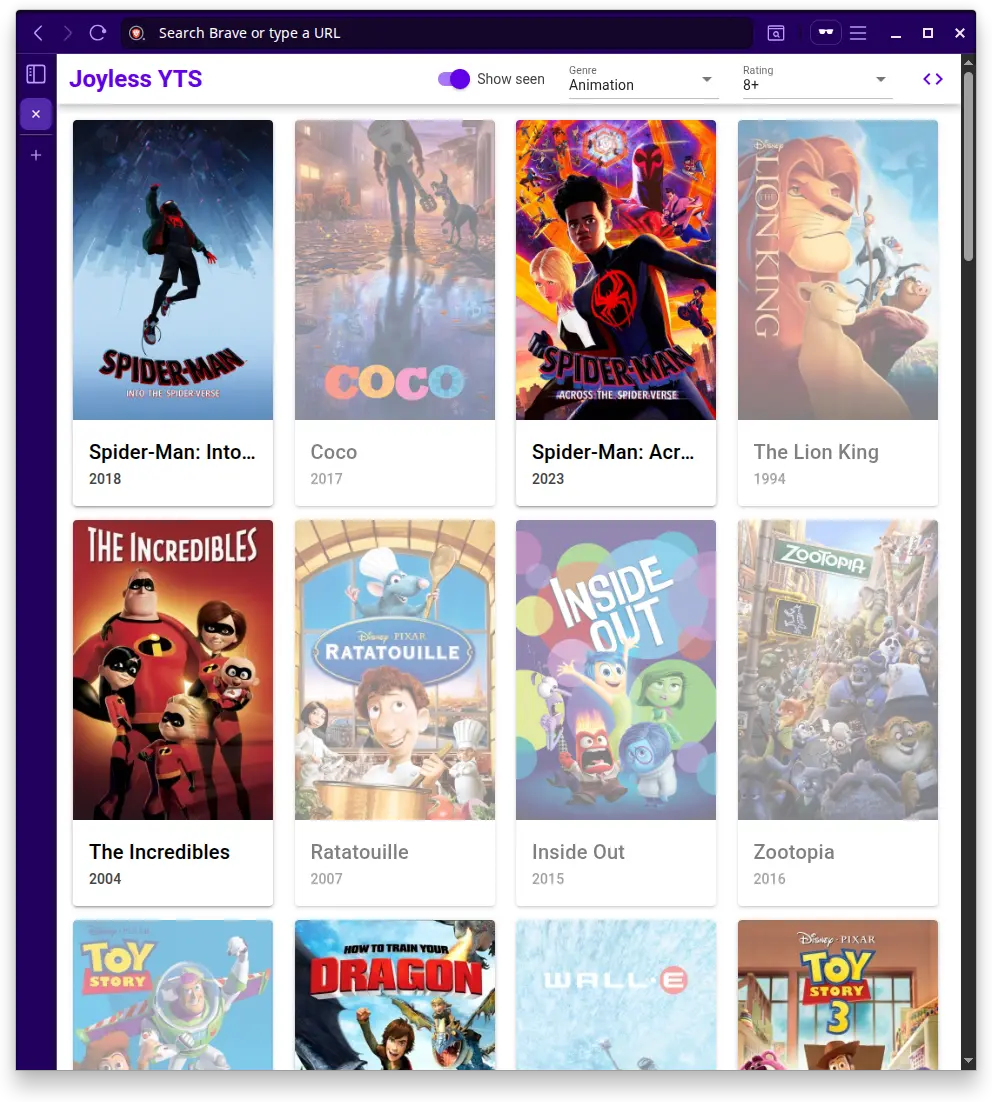
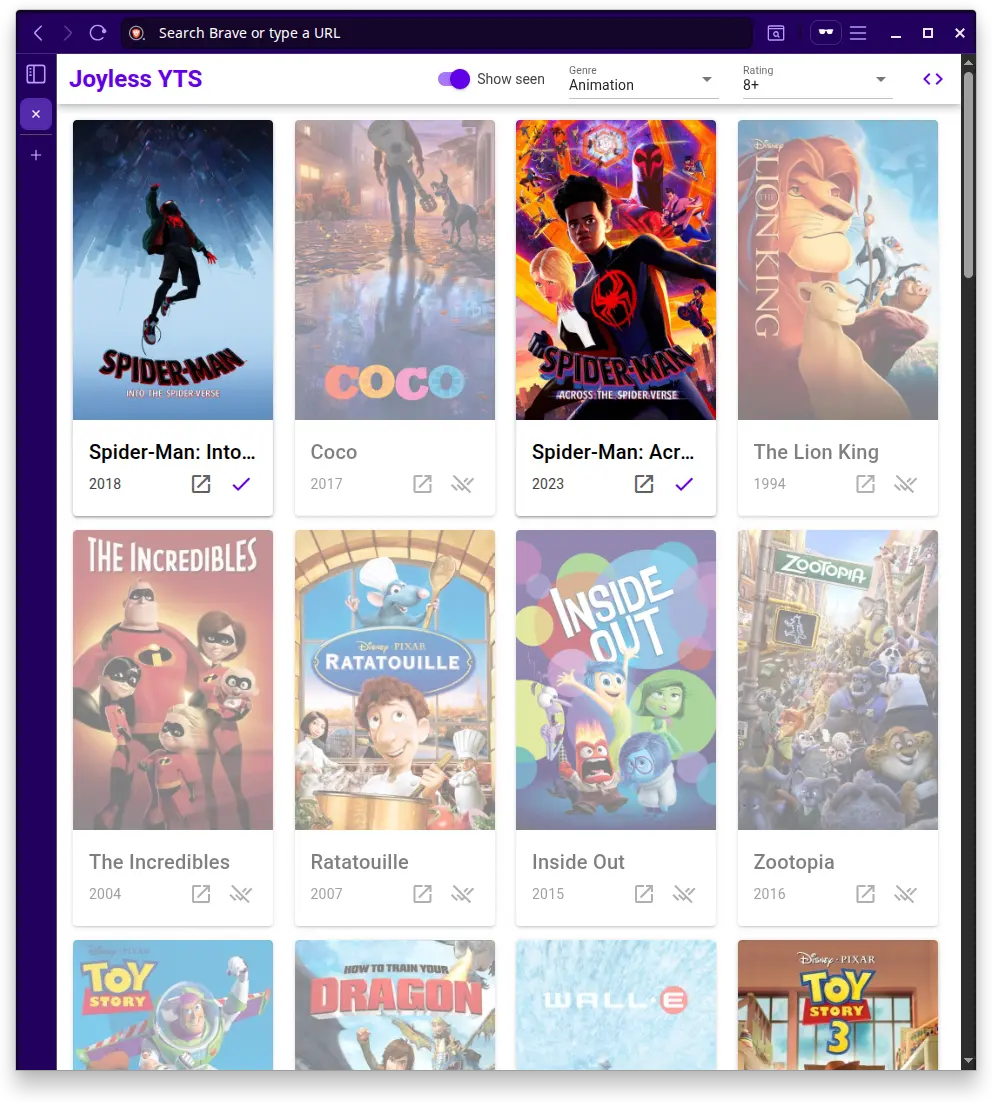
Use Counting Bloom Filter; persist seen state

Changed region(s): [[0.0625, 0.4319, 0.9688, 0.9873], [0.9688, 0.216, 1.0, 0.2468]]

diff --git a/joyless-yts/src/pages/IndexPage.vue b/joyless-yts/src/pages/IndexPage.vue
@@ -1,17 +1,44 @@
 <template>
   <q-page class="q-pa-md">
     <main class="movies-grid">
-      <q-card v-for="movie in filteredResults" :key="movie.id" tag="a" :href="movie.imdbUrl" v-ripple
-        style="width: 200px" class="movie cursor-pointer q-hoverable" :class="{
+      <q-card
+        v-for="movie in filteredResults"
+        :key="movie.id"
+        style="width: 200px"
+        class="movie"
+        :class="{
           '--seen': movie.seen,
-        }">
+        }"
+      >
         <q-img :src="movie.coverUrl" no-spinner alt="" loading="lazy" />
         <q-card-section>
           <div class="text-h6 ellipsis">
             <q-tooltip>{{ movie.title }}</q-tooltip>
             {{ movie.title }}
           </div>
-          <div class="text-subtitle2 text-grey-9">{{ movie.year }}</div>
+          <div class="flex flex-row justify-between items-center">
+            <div class="text-body2 text-grey-9">{{ movie.year }}</div>
+            <div class="row justify-end q-gutter-sm">
+              <q-btn
+                flat
+                dense
+                size="md"
+                color="grey-8"
+                icon="open_in_new"
+                :href="movie.imdbUrl"
+                target="_blank"
+                rel="noopener"
+              ></q-btn>
+              <q-btn
+                v-if="supportsRemoval"
+                flat
+                dense
+                :color="movie.seen ? 'grey-8' : 'primary'"
+                :icon="movie.seen ? 'remove_done' : 'done'"
+                @click.stop="toggleSeen(movie)"
+              ></q-btn>
+            </div>
+          </div>
         </q-card-section>
       </q-card>
     </main>
@@ -19,52 +46,112 @@
 </template>
 
 <script setup lang="ts">
-import { computed, onMounted, shallowRef, watch } from 'vue';
-import { BloomFilter } from 'bloom-filters';
+import { computed, onMounted, shallowRef, ref, watch } from 'vue';
+import { BloomFilter, CountingBloomFilter, CuckooFilter } from 'bloom-filters';
 
-import type { EnrichedYTSMovie, YTSMovie } from 'src/components/models';
+import type { EnrichedYtsMovie } from 'src/components/models';
 import { useAppStore } from 'src/stores/app-store';
-import { getMovies, type YtsSearchParams } from 'src/api/yts';
+import type { YtsSearchParams } from 'src/api/yts';
+import { getMovies } from 'src/api/yts';
 
 const appStore = useAppStore();
 const searchParams = appStore.searchParams;
 
-const seenFilter = shallowRef<InstanceType<typeof BloomFilter>>();
+type WellknownFilterType = 'CuckooFilter' | 'CountingBloomFilter' | 'BloomFilter';
+type SeenFilter = InstanceType<
+  typeof CuckooFilter | typeof CountingBloomFilter | typeof BloomFilter
+>;
 
-const searchResults = shallowRef<YTSMovie[]>();
-
-const enrichedResults = computed<EnrichedYTSMovie[]>(() => {
-  const withImdbUrls = searchResults.value?.map((movie) => ({
-    ...movie,
-    coverUrl: movie.medium_cover_image,
-    // XXX: Leading slash is important.
-    imdbUrl: `https://www.imdb.com/title/${movie.imdb_code}/`,
-  }));
-  const withSeen = withImdbUrls?.map((movie) => ({
-    ...movie,
-    seen: seenFilter.value?.has(movie.imdbUrl) ?? false,
-  }));
-  return withSeen ?? [];
+const seenFilter = shallowRef<SeenFilter>();
+const supportsRemoval = computed(() => {
+  if (!seenFilter.value) {
+    return false;
+  }
+  return 'remove' in seenFilter.value;
 });
+
+const searchResults = ref<EnrichedYtsMovie[]>([]);
 
 const filteredResults = computed(() => {
   if (appStore.config.showSeen) {
-    return enrichedResults.value;
+    return searchResults.value;
   } else {
-    return enrichedResults.value.filter(x => !x.seen);
+    return searchResults.value.filter((x) => !x.seen);
   }
 });
 
-async function loadSeenFilter() {
-  const response = await fetch('/joyless.seen.json');
-  const json = await response.json();
-  seenFilter.value = BloomFilter.fromJSON(json);
+function toggleSeen(movie: EnrichedYtsMovie) {
+  if (!seenFilter.value || !('remove' in seenFilter.value)) {
+    console.error('Seen filter not loaded or does not support removal');
+    return;
+  }
+
+  if (movie.seen) {
+    seenFilter.value.remove(movie.key);
+    movie.seen = false;
+  } else {
+    seenFilter.value.add(movie.key);
+    movie.seen = true;
+  }
+
+  persistFilter();
+}
+
+const FILTER_STORAGE_KEY = 'joyless:filter';
+
+function persistFilter() {
+  if (!seenFilter.value) {
+    return;
+  }
+  const filterJson = seenFilter.value.saveAsJSON();
+  localStorage.setItem(FILTER_STORAGE_KEY, JSON.stringify(filterJson));
+}
+
+// Try to restore filter from local storage, overrides the fetched one if present
+function tryRestoreFilter() {
+  const filterJsonStr = localStorage.getItem(FILTER_STORAGE_KEY);
+  if (!filterJsonStr) {
+    return;
+  }
+  const filterJson = JSON.parse(filterJsonStr);
+  loadSeenFilter(filterJson);
+}
+
+// eslint-disable-next-line @typescript-eslint/no-explicit-any
+function loadSeenFilter(filterJson: any) {
+  switch (filterJson.type as WellknownFilterType) {
+    case 'CuckooFilter':
+      seenFilter.value = CuckooFilter.fromJSON(filterJson);
+      break;
+    case 'CountingBloomFilter':
+      seenFilter.value = CountingBloomFilter.fromJSON(filterJson);
+      break;
+    case 'BloomFilter':
+      seenFilter.value = BloomFilter.fromJSON(filterJson);
+      break;
+    default:
+      throw new Error(`Unknown filter type: ${filterJson.type}`);
+  }
+}
+
+async function fetchMySeenFilter() {
+  const payload = await fetch('/joyless.seen.json').then((res) => res.json());
+
+  const filterJson = await payload.data;
+  loadSeenFilter(filterJson);
 }
 
 async function loadResults(params: YtsSearchParams) {
   try {
     searchResults.value = [];
-    searchResults.value = await getMovies(params);
+    const movies = await getMovies(params);
+    searchResults.value = movies.map((movie) => ({
+      ...movie,
+      coverUrl: movie.medium_cover_image,
+      imdbUrl: `https://www.imdb.com/title/${movie.imdb_code}/`,
+      key: `imdb:${movie.imdb_code}`,
+      seen: seenFilter.value?.has(`imdb:${movie.imdb_code}`) ?? false,
+    }));
   } catch (e) {
     console.error('Failed to load search results', e);
     return;
@@ -77,13 +164,14 @@ watch(
     await loadResults(searchParams);
   },
   {
-    immediate: true,
     deep: true,
-  }
-)
+  },
+);
 
 onMounted(async () => {
-  await loadSeenFilter();
+  await fetchMySeenFilter();
+  tryRestoreFilter();
+  await loadResults(searchParams);
 });
 </script>
 

diff --git a/joyless-yts/src/layouts/MainLayout.vue b/joyless-yts/src/layouts/MainLayout.vue
@@ -8,15 +8,39 @@
         <div class="row items-center q-gutter-lg text-grey-9">
           <q-toggle v-model="config.showSeen" label="Show seen" dense />
 
-          <q-select v-model="searchParams.genre" :options="GENRE_OPTIONS" label="Genre" emit-value map-options
-            option-value="value" option-label="label" dense style="min-width: 150px" />
+          <q-select
+            v-model="searchParams.genre"
+            :options="GENRE_OPTIONS"
+            label="Genre"
+            emit-value
+            map-options
+            option-value="value"
+            option-label="label"
+            dense
+            style="min-width: 150px"
+          />
 
-          <q-select v-model="searchParams.rating" :options="RATING_OPTIONS" label="Rating" emit-value map-options
-            option-value="value" option-label="label" dense style="min-width: 150px" />
+          <q-select
+            v-model="searchParams.rating"
+            :options="RATING_OPTIONS"
+            label="Rating"
+            emit-value
+            map-options
+            option-value="value"
+            option-label="label"
+            dense
+            style="min-width: 150px"
+          />
 
-            <q-btn flat dense icon="code" color="primary" href="https://github.com/djalilhebal/joyless">
-              <q-tooltip>Source code</q-tooltip>
-            </q-btn>
+          <q-btn
+            flat
+            dense
+            icon="code"
+            color="primary"
+            href="https://github.com/djalilhebal/joyless"
+          >
+            <q-tooltip>Source code</q-tooltip>
+          </q-btn>
         </div>
       </q-toolbar>
     </q-header>

diff --git a/joyless-yts/src/api/yts.ts b/joyless-yts/src/api/yts.ts
@@ -1,11 +1,19 @@
 // YTS API stuff
 
+export interface YtsMovie {
+  id: number;
+  title: string;
+  year: number;
+  imdb_code: string;
+  medium_cover_image: string;
+}
+
 export interface YtsSearchParams {
   genre: string;
   rating: number;
 }
 
-export async function getMovies(params: YtsSearchParams) {
+export async function getMovies(params: YtsSearchParams): Promise<YtsMovie[]> {
   const url = `https://yts.mx/api/v2/list_movies.json?genre=${params.genre}&limit=50&minimum_rating=${params.rating}&sort_by=download_count`;
   const response = await fetch(url).then((res) => res.json());
   if (response.status === 'ok') {
@@ -55,5 +63,5 @@ export const RATING_OPTIONS = [
   { value: 4, label: '4+' },
   { value: 3, label: '3+' },
   { value: 2, label: '2+' },
-  { value: 1, label: '1+' }
+  { value: 1, label: '1+' },
 ];

diff --git a/joyless-yts/src/components/models.ts b/joyless-yts/src/components/models.ts
@@ -1,13 +1,9 @@
-export interface YTSMovie {
-  id: number,
-  title: string,
-  year: number,
-  imdb_code: string,
-  medium_cover_image: string,
-}
+import type { YtsMovie } from 'src/api/yts';
 
-export interface EnrichedYTSMovie extends YTSMovie {
-  coverUrl: string,
-  imdbUrl: string,
-  seen: boolean,
+export interface EnrichedYtsMovie extends YtsMovie {
+  // URN e.g. imdb:tt1234567
+  key: string;
+  coverUrl: string;
+  imdbUrl: string;
+  seen: boolean;
 }

diff --git a/joyless-yts/quasar.config.ts b/joyless-yts/quasar.config.ts
@@ -88,7 +88,7 @@ export default defineConfig((/* ctx */) => {
       config: {
         brand: {
           primary: '#6200ea',
-        }
+        },
       },
 
       // iconSet: 'material-icons', // Quasar icon set

diff --git a/joyless-yts/src/stores/app-store.ts b/joyless-yts/src/stores/app-store.ts
@@ -1,5 +1,5 @@
 import { defineStore, acceptHMRUpdate } from 'pinia';
-import { useStorage } from '@vueuse/core'
+import { useStorage } from '@vueuse/core';
 
 import type { YtsSearchParams } from 'src/api/yts';
 

diff --git a/joyless-yts/README.md b/joyless-yts/README.md
@@ -32,8 +32,6 @@ Discovering stuff I have yet to see.
 
 ## Idea: Cuckoo filter
 
-[Cuckoo filter | Wikipedia](https://en.wikipedia.org/wiki/Cuckoo_filter)
-
 A Cuckoo filter is like a probabilistic set. It answers the question "Is this element in the set?" with either **No** (certain) or **Probably Yes**. \
 Meaning, there may be false positives. \
 For our use-case, we can set adjust the error rate (**false positive rate**) to 1%. \
@@ -53,7 +51,7 @@ Have I seen [_The Godfather_](https://www.imdb.com/title/tt0068646/)? Certainly 
 
 ## Implementation
 
-- [`npm:bloom-filters`](https://github.com/Callidon/bloom-filters) provies the Cuckoo filter implementation.
+- [`npm:bloom-filters`](https://github.com/Callidon/bloom-filters) provies the Bloom and Cuckoo filters.
   * [`npm:buffer`](https://github.com/feross/buffer) to polyfill `Buffer` in the browser.
   * 🟥 As of 2025-10-05, Cuckoo filter is bugged: It returns false negatives, which is unacceptable.
     We will need to [wait for the issue to be fixed](https://github.com/Callidon/bloom-filters/issues/68) or use something else.
@@ -61,6 +59,7 @@ Have I seen [_The Godfather_](https://www.imdb.com/title/tt0068646/)? Certainly 
   * 🟩 Uses xxHash.
 - [ ] [`npm:cuckoo-filter`](https://github.com/vijayee/cuckoo-filter)
   * 🟩 Supports JSON serialization.
+  * 🟧 Not maintained.
   * 🟧 Uses DJB2 Hash (the `hash` util function) and FNV Hash (specifically FNV-1a from `npm:fnv32`).
      In theory, FNV is less random and less uniform than xxHash. That could lead to more collisions and false positives in a Bloom/Cuckoo filter.
 

diff --git a/joyless-yts/Ramblings.md b/joyless-yts/Ramblings.md
@@ -2,6 +2,8 @@
 
 - [Bloom filter - Wikipedia](https://en.wikipedia.org/wiki/Bloom_filter)
 
+- [Cuckoo filter | Wikipedia](https://en.wikipedia.org/wiki/Cuckoo_filter)
+
 - [ ] [Static Filters (Bloom & XOR) - YouTube](https://www.youtube.com/watch?v=rarUa_jtRsw)
 
 
